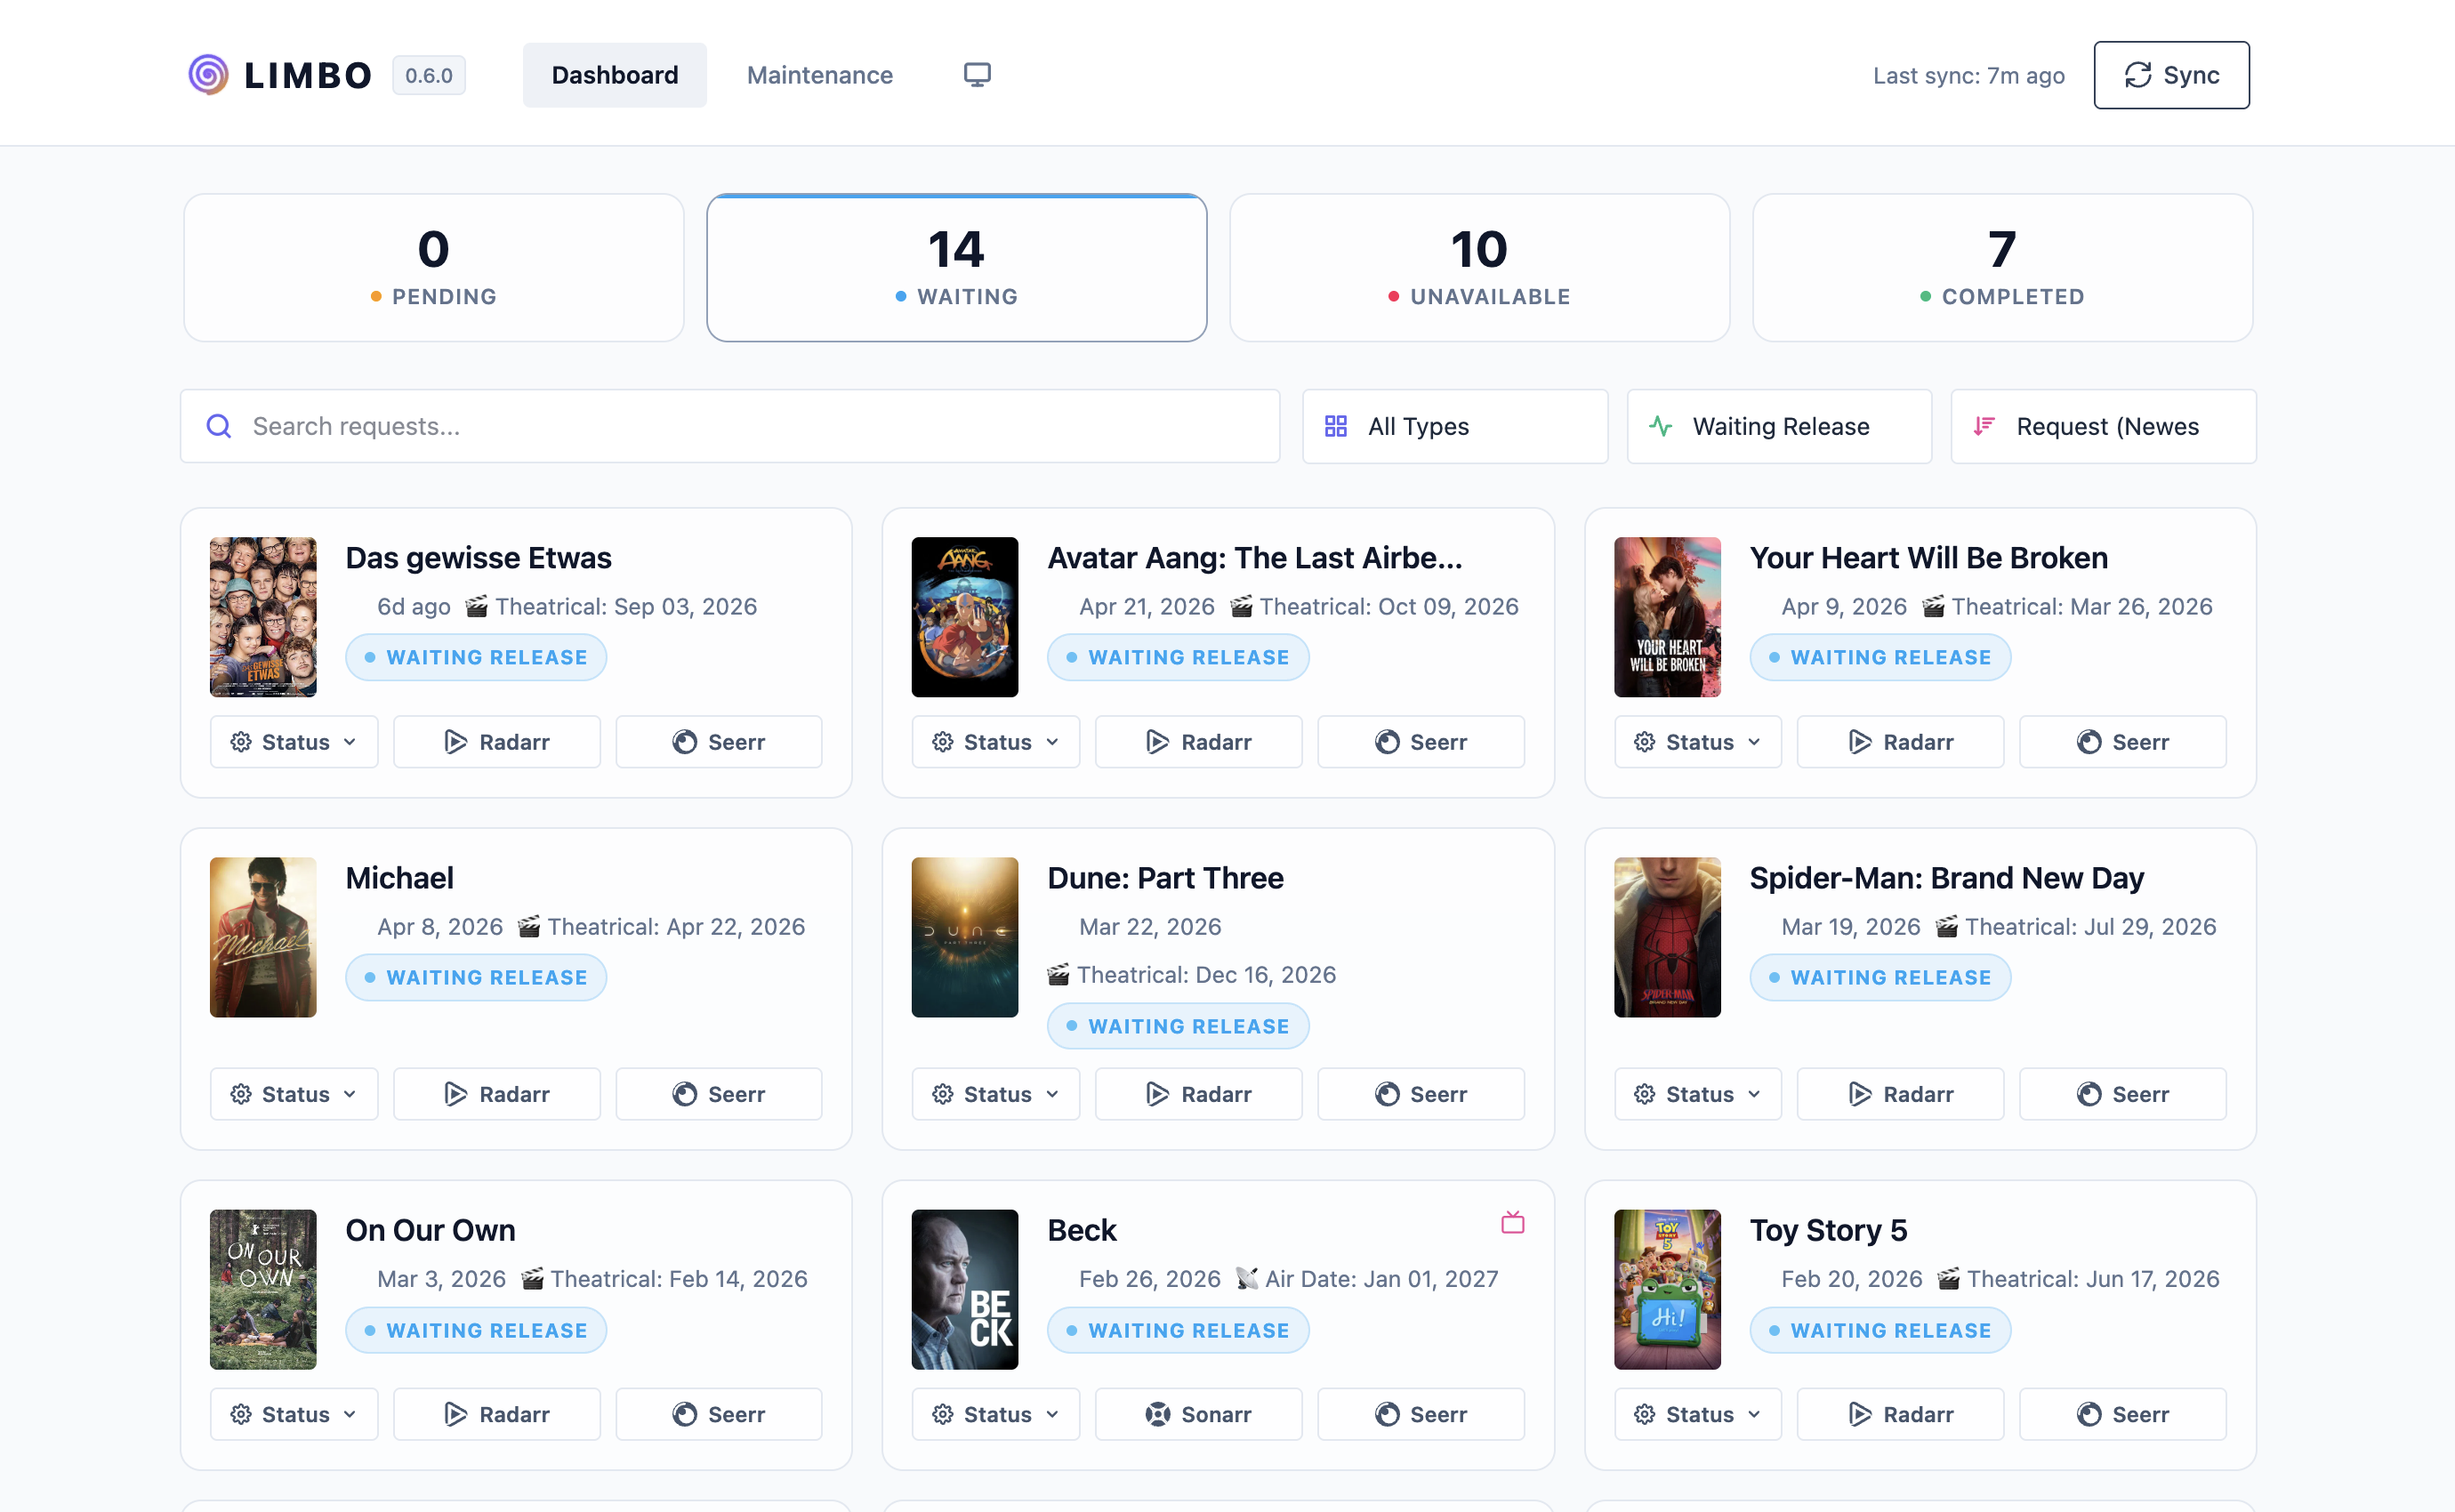
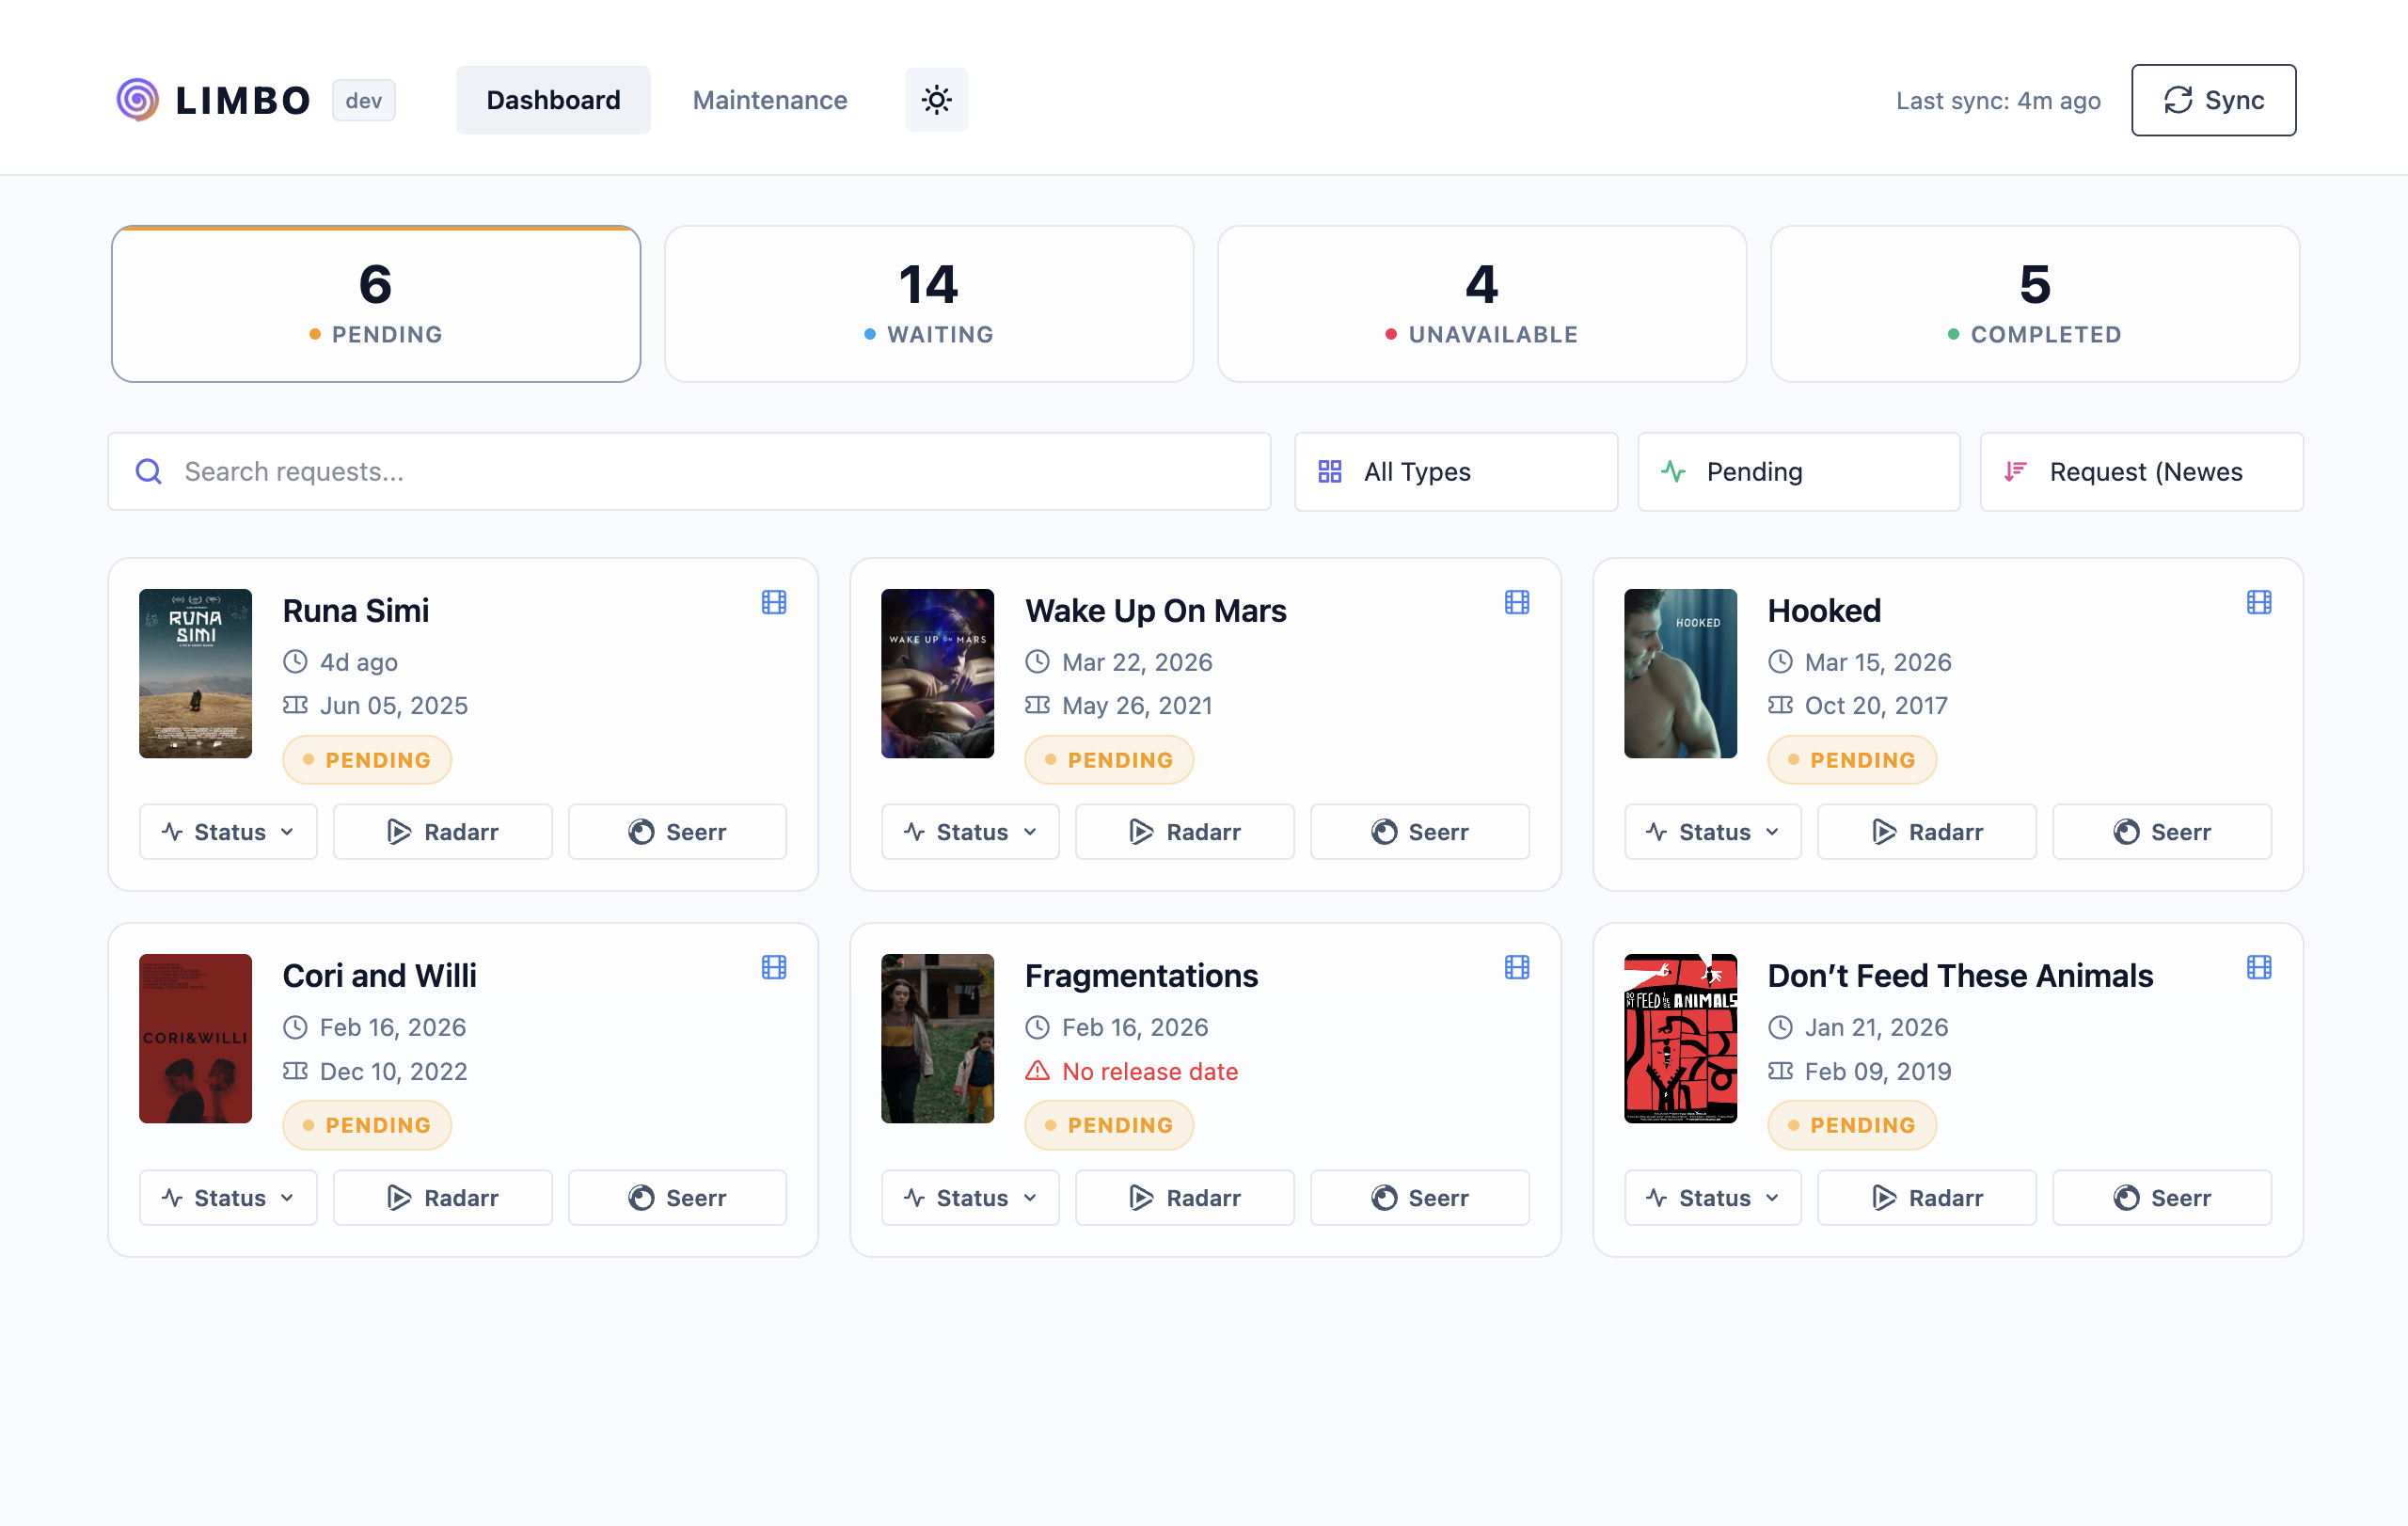
docs: update dashboard screenshots and README documentation for maintenance operations

diff --git a/README.md b/README.md
@@ -24,14 +24,14 @@ Limbo is a lightweight, self-hosted Go dashboard and background notifier that tr
 </p>
 
 <details>
-  <summary>📸 View Light Mode & Triage Screens</summary>
+  <summary>📸 View Light Mode & Maintenance Screens</summary>
   <br>
   <p align="center">
     <strong>Light Mode Dashboard</strong><br><br>
     <img src=".github/screenshots/dashboard-light.png" alt="Limbo Dashboard Light Mode" width="800">
   </p>
   <p align="center">
-    <strong>Triage & Maintenance Operations</strong><br><br>
+    <strong>Maintenance Operations</strong><br><br>
     <img src=".github/screenshots/maintenance.png" alt="Limbo Triage & Maintenance Details" width="800">
   </p>
 </details>